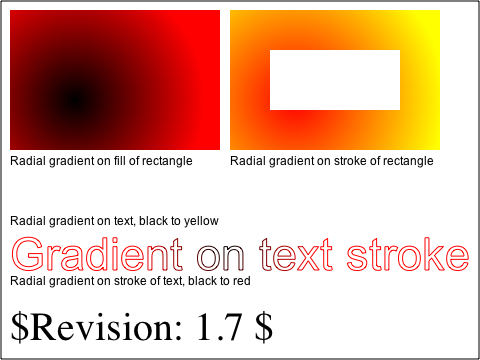
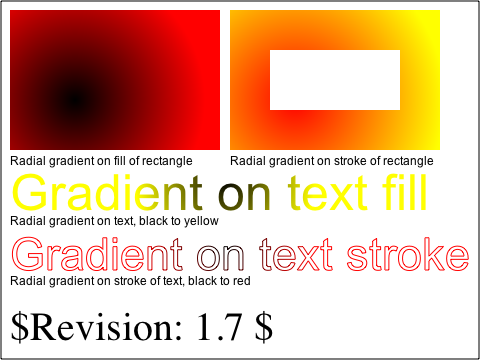
Reviewed by Oliver. Fix regression: gradient on fill of text works again!
git-svn-id: http://svn.webkit.org/repository/webkit/branches/rebased-feature-branch@25828 268f45cc-cd09-0410-ab3c-d52691b4dbfc

Changed region(s): [[0.0, 0.4583, 0.5625, 0.6111], [0.5938, 0.4583, 0.9062, 0.5806]]

diff --git a/WebCore/platform/graphics/svg/cg/SVGPaintServerGradientCg.cpp b/WebCore/platform/graphics/svg/cg/SVGPaintServerGradientCg.cpp
@@ -175,10 +175,7 @@ void SVGPaintServerGradient::teardown(GraphicsContext*& context, const RenderObj
     }
 
     if ((type & ApplyToFillTargetType) && style->svgStyle()->hasFill()) {
-        // workaround for filling the entire screen with the shading in the case that no text was intersected with the clip
-        if (!isPaintingText || (object->width() > 0 && object->height() > 0))
-            CGContextDrawShading(contextRef, shading);
-
+        CGContextDrawShading(contextRef, shading);
         context->restore();
     }
 
